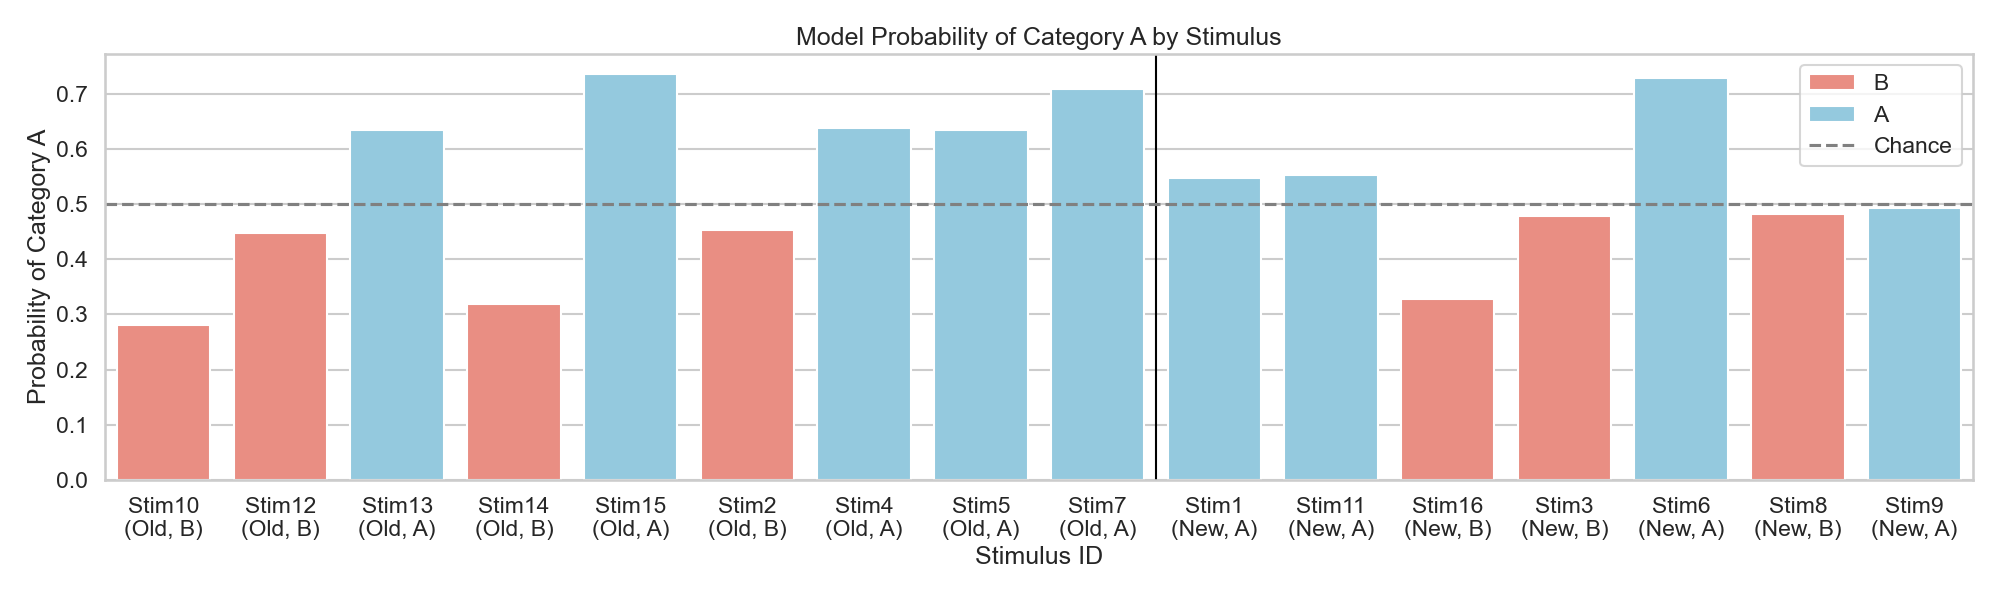
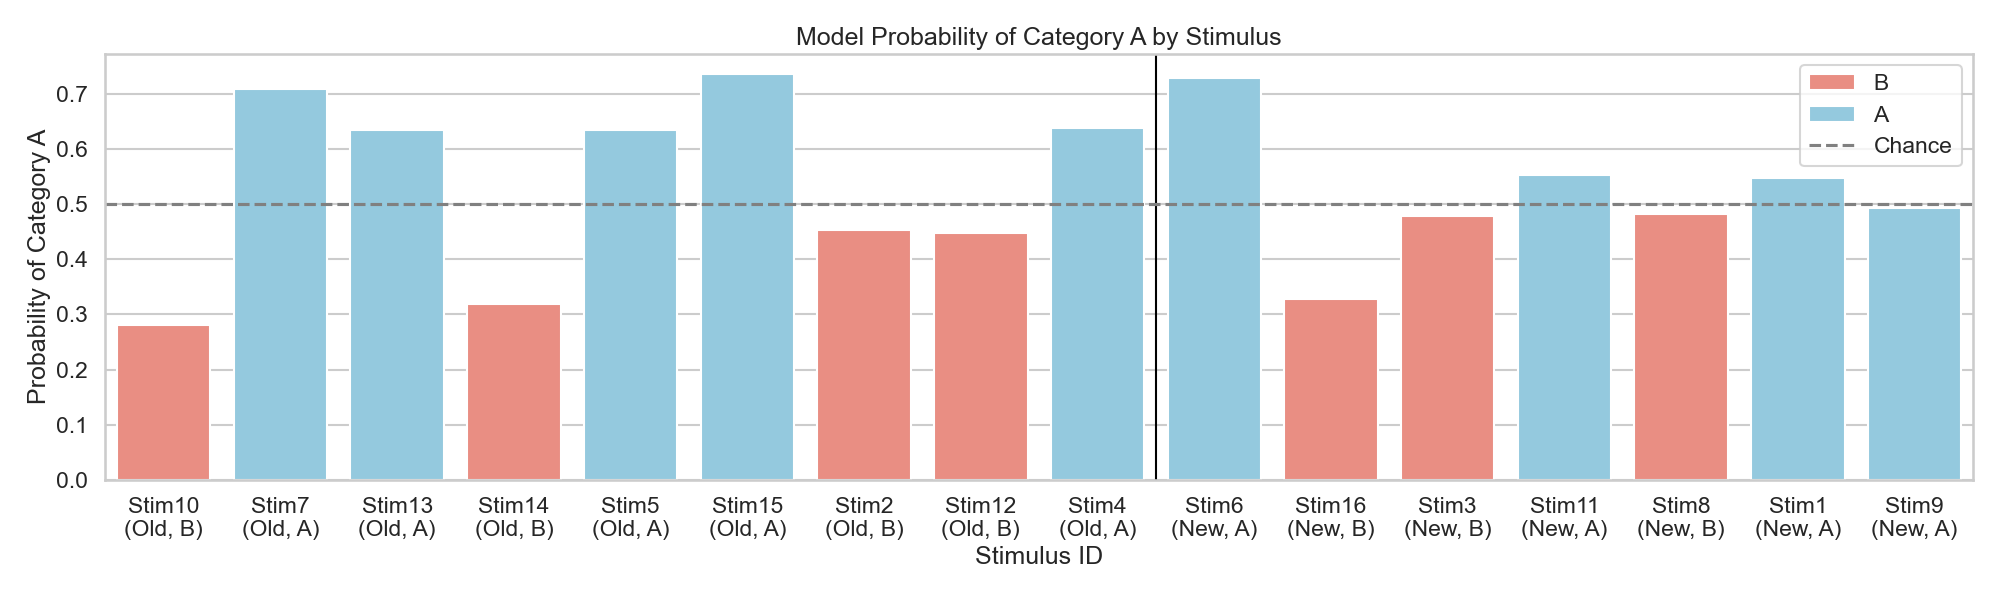
revisions to bar chart for central tendency effect

Changed region(s): [[0.279, 0.12, 0.93, 0.9], [0.093, 0.15, 0.186, 0.9]]

diff --git a/experiments/central-tendency-effect/results/visualize.py b/experiments/central-tendency-effect/results/visualize.py
@@ -99,9 +99,10 @@ def visualize_results():
     # Flatten columns
     agg.columns = ['_'.join(col).strip() if col[1] else col[0] for col in agg.columns.values]
     
-    # Sort for plotting: Group by Type (Old/New) then ID
-    agg['sort_order'] = agg['type'].map({'Old': 0, 'New': 1})
-    agg = agg.sort_values(by=['sort_order', 'stimulus_id'])
+    # Sort for plotting: Group by Type (Old/New) then Human Rating
+    agg['human_rating_sort'] = agg['stimulus_id'].map(HUMAN_RATINGS)
+    agg['type_order'] = agg['type'].map({'Old': 1, 'New': 0})
+    agg = agg.sort_values(by=['type_order', 'human_rating_sort'], ascending=False)
     
     # Create Label with Type and Category
     agg['label'] = agg.apply(lambda x: f"{x['stimulus_id']}\n({x['type']}, {x['correct_cat']})", axis=1)
